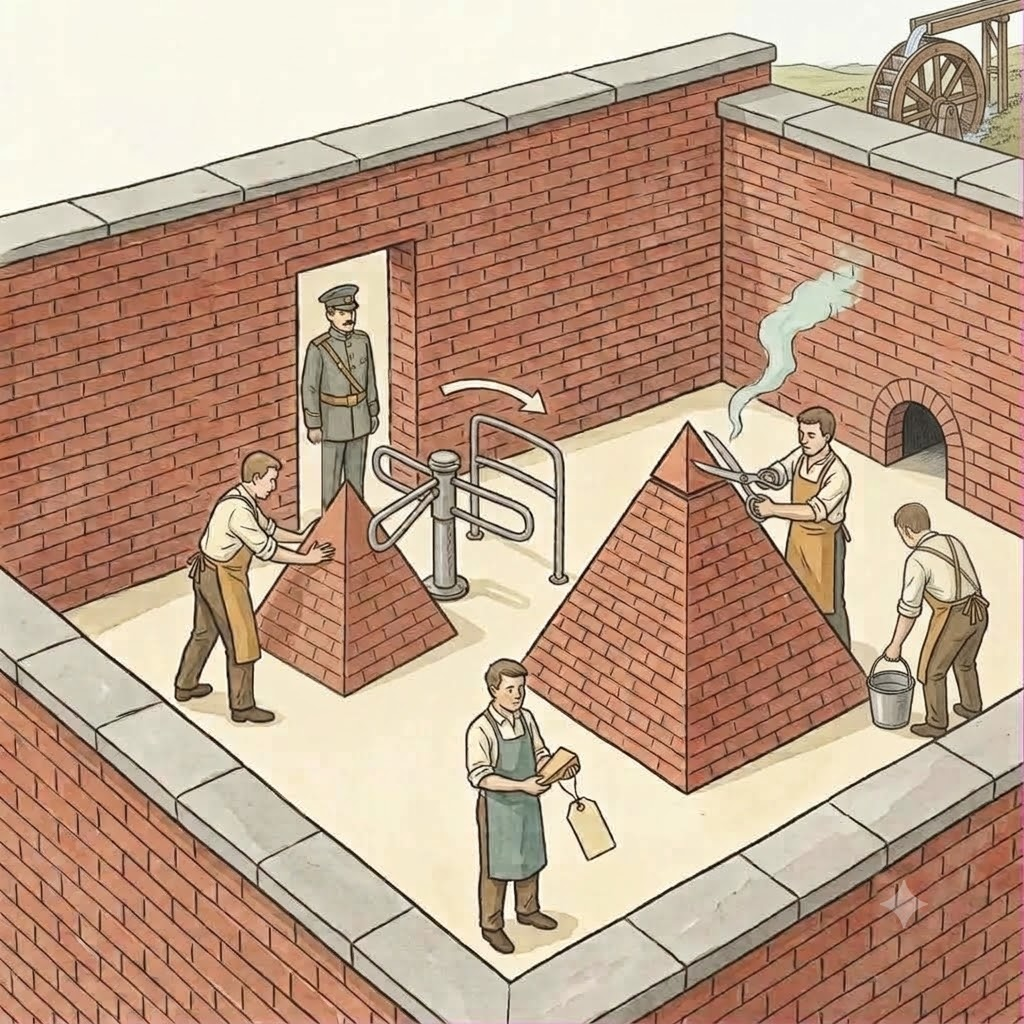
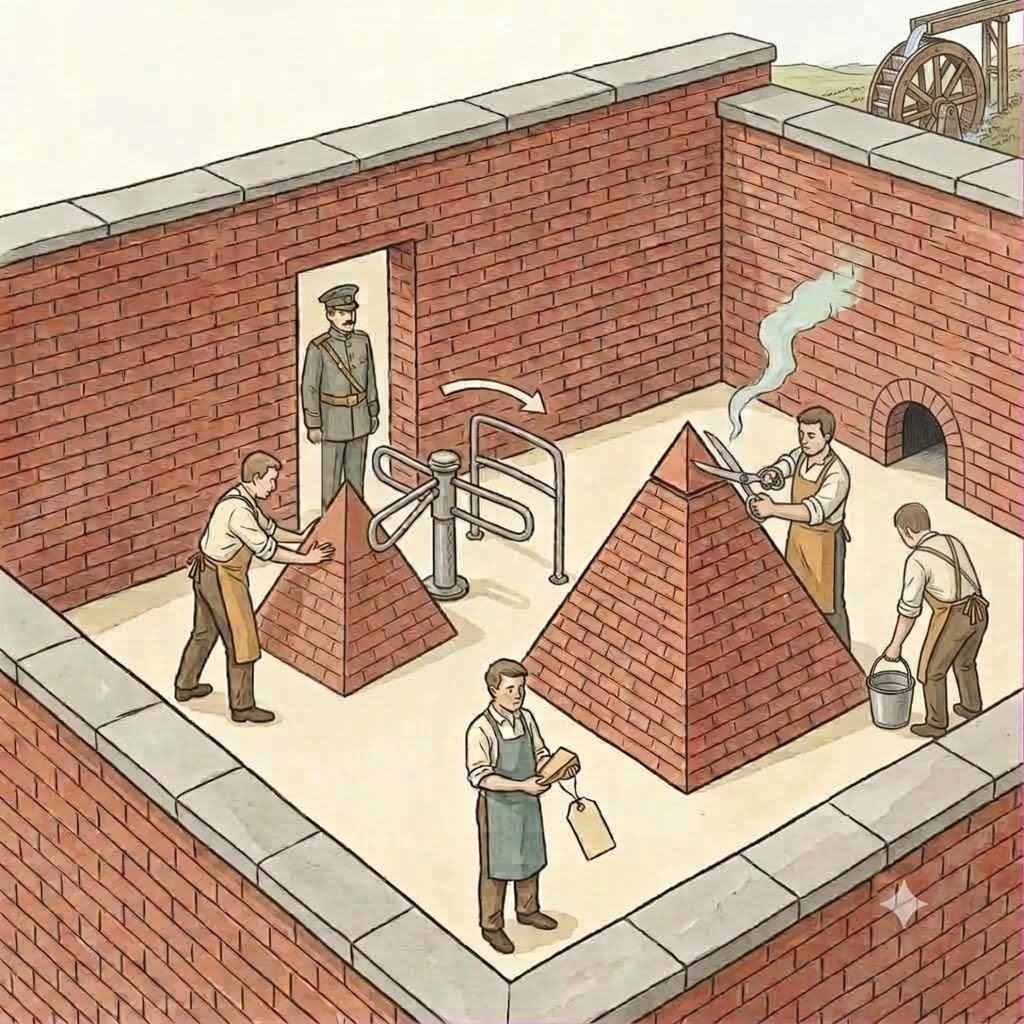
해부 A8 — s31p02 가위 든 사람 위쪽 팔: 흰 소매가 손 없이 가위 위 고리로 곧장 → 소맷부리에서 나온 살색 손이 위 고리를 쥠
제미나이 2라운드: v1(s31p02_가위손_v1) 실패 — 소매가 여전히 고리로(제미나이 대화 제목도 「Unfulfilled Hand Edit Request」). v2(s31p02_가위손_v2) — 「손이 없다」를 먼저 말하고 소맷부리·엄지·손가락 넷을 구체로 → 고리 안에 주먹. 격자 대조: 바뀐 곳은 손 둘레뿐.

Claude-Session: https://claude.ai/code/session_01WoYBm6rvmofApXiAiUhif2

Changed region(s): [[0.7188, 0.4062, 0.8438, 0.5312], [0.8438, 0.8438, 0.9062, 0.9062]]

diff --git a/tools/prompts/QUEUE_0928.md b/tools/prompts/QUEUE_0928.md
@@ -32,7 +32,7 @@
 | ~~A5~~ ✔ | s16p01 | 도장 둘 — 각자 두 팔 | 제미나이 1라운드 |
 | ~~A6~~ ✔ | s17p03c | 인부 손 셋 → 둘(창 한 손 · V자 이음쇠 한 손) | 제미나이 1라운드 |
 | ~~A7~~ ✔ | s26p01 | 매달린 인물 팔 셋·넷 · 정수리 고리 → 열둘 모두 두 손 매달림 + 배 주머니 | 제미나이 2라운드(v1 실패) + 손 보정(위 구슬 지움) |
-| A8 | ~~s25p01b~~ ✔(손 보정) · s31p02 · s01p04 · s04p05 | 다리 셋 · 손 없는 소매 · 갑각류 다리 수 | 제미나이(작음) |
+| A8 | ~~s25p01b~~ ✔(손 보정) · ~~s31p02~~ ✔(v2 2라운드) · s01p04 · s04p05 | 다리 셋 · 손 없는 소매 · 갑각류 다리 수 | 제미나이(작음) |
 | — | s46p02 · s16p01b · s33p01 | 머리 없는 몸통 · 주인 없는 팔 · 머리 둘 나귀 | 판째 다시 그리기 때 |
 
 ## ★ 개념 논리 감사(2026-09-29) — scratchpad → tools/vision/logic_0929.md 로 옮길 것 · 원래 대기열보다 앞

diff --git a/tools/vision/anatomy_0928.md b/tools/vision/anatomy_0928.md
@@ -24,7 +24,7 @@
 |---|---|
 | s16p01b | 가운데 사람 어깨를 찍는 주먹의 팔이 흰 소매로 웃통 벗은 사람 어깨에서 끝남 = 주인 없는 팔(웃통 벗은 사람 왼팔은 옆에 늘어짐) — 판째 재생성 목록에 이미 있음 |
 | s25p01b | 겨자색 원피스 여자 치마 밑으로 다리·신 셋 — ✔ 손 보정(셋째 다리·구두 코 지움) |
-| s31p02 | 가위 든 사람 위쪽 팔이 손 없이 가위 고리로 이어짐 |
+| s31p02 | 가위 든 사람 위쪽 팔이 손 없이 가위 고리로 이어짐 — ✔ 제미나이 2라운드(v1 실패 · v2 「손이 없다」를 먼저 말하고 소맷부리·손가락을 구체로 → 고리 안 주먹) |
 | s01p04 · s04p05 | 랍스터 · 간판 게 다리가 집게 포함 여덟(실제 열) — 작다 |
 
 ## 불확실 (눈으로 다시)
